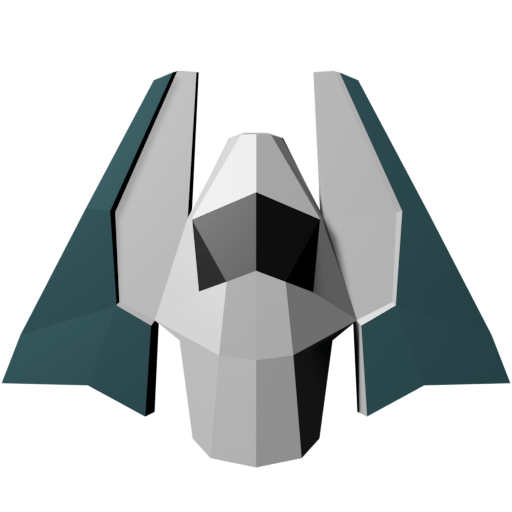
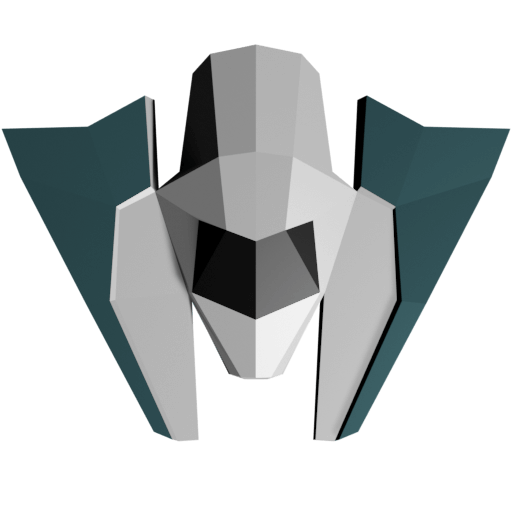
Fixed actor-target-demo

diff --git a/examples/actor-target/actor-target-demo.js b/examples/actor-target/actor-target-demo.js
@@ -14,6 +14,8 @@ import * as TGE from '../../engine.js';
 const Engine = TGE.Engine;	
 const { Vector2:Vec2 } = TGE.Types;
 
+const path = '../../assets/img/';
+
 const tick = () => {
     const ship = Engine.gameLoop.findActorByName('player-actor');      // get reference to Player Actor
     const keys = ship.controllers['keyboard'];                              // get reference to Keyboard key state object
@@ -21,41 +23,42 @@ const tick = () => {
     if (keys.keyState.left)  ship.rotation -= 0.1;                          // rotate Player ship counter-clockwise when left arrow is depressed
     if (keys.keyState.right) ship.rotation += 0.1;                          // rotate Player ship clockwise when right arrows is depressed
     if (keys.keyState.up)    { 
-        const v = Vec2.FromAngle(ship.rotation, 0.05);         // gets unit vector from current ship.rotation angle (length = 1) and scales it down to 5% (length = 0.05)
+        const v = Vec2.FromAngle(ship.rotation, 0.05);                      // gets unit vector from current ship.rotation angle (length = 1) and scales it down to 5% (length = 0.05)
         ship.addImpulse(v);                                                 // apply impulse to the Player Actor (5% of one pixel size per tick)
     }
 }
 
-const main = async () => {        
-    // First let's set up the engine        
-    Engine.setRootElement('game');              
-    Engine.setFlags({ hasEdges:false, hasRenderingSurface:true });
+const main = async () => {            
+    await Engine.setup('./settings.hjson');                                 // set up the game engine
 
     try {                
-        Engine.addLayer({ imgUrl:'img/level1.jpg', scale:1.15, position:Engine.dims.mulScalar(0.5) });                        
+        Engine.addLayer({ imgUrl:path + 'level1.jpg', scale:1.15, position:Engine.dims.mulScalar(0.5) });                        
                 
-        // create player ship and add it in GameLoop
-        const ship = Engine.addActor('player', { name:'player-actor', zIndex:2, imgUrl:'img/spaceship.png', scale:0.125, position:new Vec2(Engine.dims.x * .5, 420) });
+        const ship = Engine.addActor('player', {                            // create player ship and add it in GameLoop
+            name:'player-actor', zIndex:2, imgUrl:path + 'spaceship.png', scale:0.125, rotation:Math.PI, position:new Vec2(Engine.dims.x * .5, 420) 
+        }); 
         ship.movementType = 'custom';        
         ship.attachKeyboard();            
-
-        // create 3 actors and make them orbit and follow the player
-        for (let i = 0; i < 3; i++) {
-            const asteroid  = Engine.addActor('actor', { name:'asteroid', imgUrl:`img/asteroid${i % 3 + 1}.png`, scale:0.15, position:new Vec2(Engine.dims.x / 3 * i + 100,50) });               
-
-            // set up the ActorMovement object 
-            asteroid.movement.from({ 
+        
+        for (let i = 0; i < 3; i++) {                                       // create 3 actors and make them orbit and follow the player
+            const asteroid  = Engine.addActor('actor', { 
+                name:'asteroid', imgUrl:`${path}asteroid${i % 3 + 1}.png`, scale:0.15, position:new Vec2(Engine.dims.x / 3 * i + 100,50) 
+            });               
+            
+            asteroid.movement.copy({                                        // set up the ActorMovement object 
                 speed         : 0,
                 maxVelocity   : 0.7,
                 acceleration  : 0.01,
                 orbitRadius   : 200, 
                 orbitOffset   : Math.PI * 2 / 3 * i,
                 orbitDuration : 0.07,
-                angularSpeed  : '0.333/s'                   // makes this actor rotate 1/3 of a revolution per second
-            });                        
+                isEnabled     : true,
+                angularSpeed  : '0.333/s'                                   // makes this actor rotate 1/3 of a revolution per second
+            });                                    
+                        
+            asteroid._target = ship;                                        // set the Player ship as target:
 
-            // set the Player ship as target:
-            asteroid.target = ship;            
+            
         }        
 
         /**
@@ -66,17 +69,16 @@ const main = async () => {
             Engine.gameLoop.forActors(e => {
                 if (e.name == 'player-actor') {
                     Engine.renderingSurface.resetTransform();                    
-                    Engine.renderingSurface.drawPoly(e.position, { stroke:'lime' });
+                    Engine.renderingSurface.drawCircle(e.position, 200, { stroke:'lime' });
                 } 
                 if (e.name == 'asteroid') {                        
                     if (e.movement._targetPosition) {
                         Engine.renderingSurface.resetTransform();
-                        const targetAngle = e.movement._targetDir.toAngle();
+                        const targetAngle = e.movement._targetDir.toAngle();                        
                         Engine.renderingSurface.drawCircle(e.movement._targetPosition, 3, { stroke:'yellow' });
                         Engine.renderingSurface.drawCircle(e.position, 25, { stroke:'yellow' });
                         Engine.renderingSurface.drawArrow(e.position, { angle:targetAngle, length:e.movement._targetDistance, width:1, sweep:0.85, head:10 }, 'red');
-                        Engine.renderingSurface.textOut(e.position.clone().add(new Vec2(30, 7)), (targetAngle / Math.PI * 180).toFixed(0)+'°', { color:'white', font:'20px arial' });
-                        Engine.renderingSurface.drawCircle()
+                        Engine.renderingSurface.textOut(e.position.clone().add(new Vec2(30, 7)), (targetAngle / Math.PI * 180).toFixed(0)+'°', { color:'white', font:'20px arial' });                        
                     }
                 }
             });

diff --git a/actor.js b/actor.js
@@ -119,7 +119,7 @@ class Actor extends Root {
 		 *  @memberof Actor
 		 *  @type {Actor#movement}
 		 */
-		AE.sealProp(this, 'movement', new ActorMovement());								// movement object (TO-DO: might need a Class?)
+		AE.sealProp(this, 'movement', new ActorMovement(this));								// movement object (TO-DO: might need a Class?)
 		AE.sealProp(this, 'data', ('data' in o) ? o.data : {});								// Container for custom user data
 		AE.sealProp(this, 'surface');
 		AE.sealProp(this, 'counters', {});
@@ -410,7 +410,7 @@ class Actor extends Root {
 			
 			if (!('_offset' in this.movement)) this.movement._offset = 0;
 
-			const ang     = this.movement.orbitOffset + this.owner.seconds * Math.PI * 2 * this.movement.orbitDuration;
+			const ang     = this.movement.orbitOffset + this.owner.runningTime * Math.PI * 2 * this.movement.orbitDuration;
 			const offset  = Vec2.Up().rotate(ang).mulScalar(radius);			
 			const dir     = Vec2.Sub(this._target.position, Vec2.Add(offset.clone().rotate(Math.PI), this.position)).normalize();		
 			
@@ -429,10 +429,8 @@ class Actor extends Root {
 		if (this.movement.isEnabled) {																		// apply movement parameters, velocity and velocity cap
 			this.rotation += this.movement._angularSpeed;
 
-
 			var len = this.velocity.length;			
 			if (len > this.movement.maxVelocity) this.velocity.normalize().mulScalar(this.movement.maxVelocity);	
-
 			
 			if (this.path) {
 				const direction = this.updatePath();				

diff --git a/utils.js b/utils.js
@@ -286,15 +286,17 @@ const downloadFile = (filename, data, type = 'application/json') => {
  * Creates an open file dialog
  * @param {string} acceptedFiles ".doc,.docx,.xml,application/msword,application/vnd.openxmlformats-officedocument.wordprocessingml.document"
  * @param {boolean} multiple allow multiple files to be selected
- * @param {function} onAccept callback to be excuted when the file dialog is closed
+ * @return {Promise} array of files
  */
-const openFileDialog = (acceptedFiles = '*', multiple = false, onAccept) => {
-	var i = document.createElement('input');
-	i.setAttribute('type', 'file');
-	if (multiple == true) i.setAttribute('multiple', multiple);
-	i.setAttribute('accept', acceptedFiles);
-	if (typeof onAccept == 'function') i.addEventListener('change', e => onAccept(e, i.files));
-	i.click();	
+const openFileDialog = (acceptedFiles = '*', multiple = false) => {
+	return new Promise(resolve => {
+		var i = document.createElement('input');
+		i.setAttribute('type', 'file');
+		if (multiple == true) i.setAttribute('multiple', multiple);
+		i.setAttribute('accept', acceptedFiles);
+		i.addEventListener('change', e => resolve(i.files));
+		i.click();	
+	});
 }
 
 const wrapMax = (x, max) => {

diff --git a/actorMovement.js b/actorMovement.js
@@ -1,6 +1,11 @@
 class ActorMovement {
-	constructor() {	
+	constructor(actor) {	
+		this.actor = actor;
 		Object.assign(this, ActorMovement.DefaultProperties);
+	}
+
+	copy(o) {
+		for (const [k, v] of Object.entries(o)) if (k in this) this[k] = v;		
 	}
 
 	static get DefaultProperties() {
@@ -24,13 +29,14 @@ class ActorMovement {
 
 	set angularSpeed(value) {
 		let v = 0;
+		
 		if (typeof value == 'string') {
 			const tmp = parseFloat(value);
 			if (value.endsWith('/s')) {
-				if (!isNaN(tmp)) v = Math.PI / (1000 / this._actor.owner._tickRate) * tmp;				
+				if (!isNaN(tmp)) v = Math.PI / (1000 / this.actor.owner.tickRate) * tmp;				
 			} else
 			if (value.endsWith('s')) {
-				if (!isNaN(tmp)) v = Math.PI / (1000 / this._actor.owner._tickRate) * (1 / tmp);
+				if (!isNaN(tmp)) v = Math.PI / (1000 / this.actor.owner.tickRate) * (1 / tmp);
 			} 
 		} else
 		if (typeof value == 'number') {

diff --git a/examples/actor-target/index.html b/examples/actor-target/index.html
@@ -5,7 +5,7 @@
     <meta http-equiv="X-UA-Compatible" content="IE=edge">
     <meta name="viewport" content="width=device-width, initial-scale=1.0">
     <title>TGE2 Actor Target Demo</title>
-    <script src="../../ext/ae2.min.js"></script>
+    <script src="../../ext/ae2.js"></script>
     <link rel="stylesheet" type="text/css" href="default.css">
 </head>
 <body>
